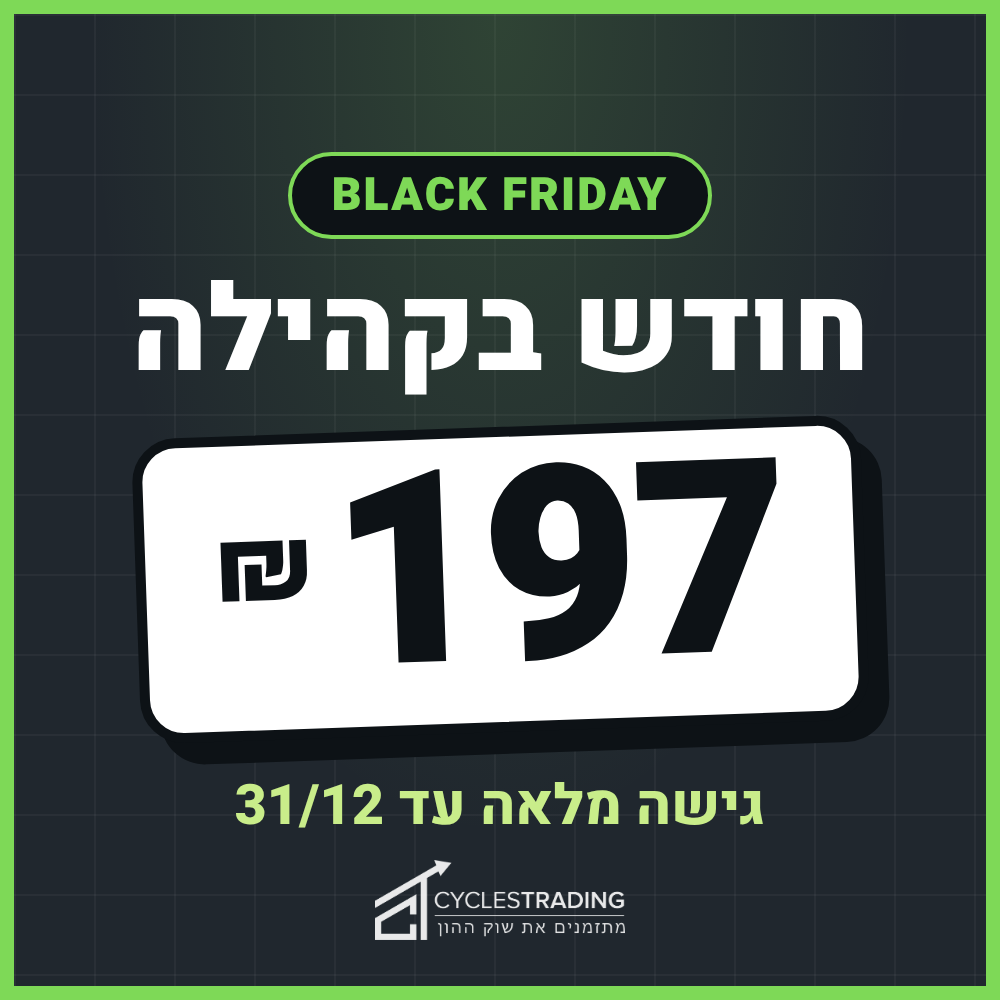
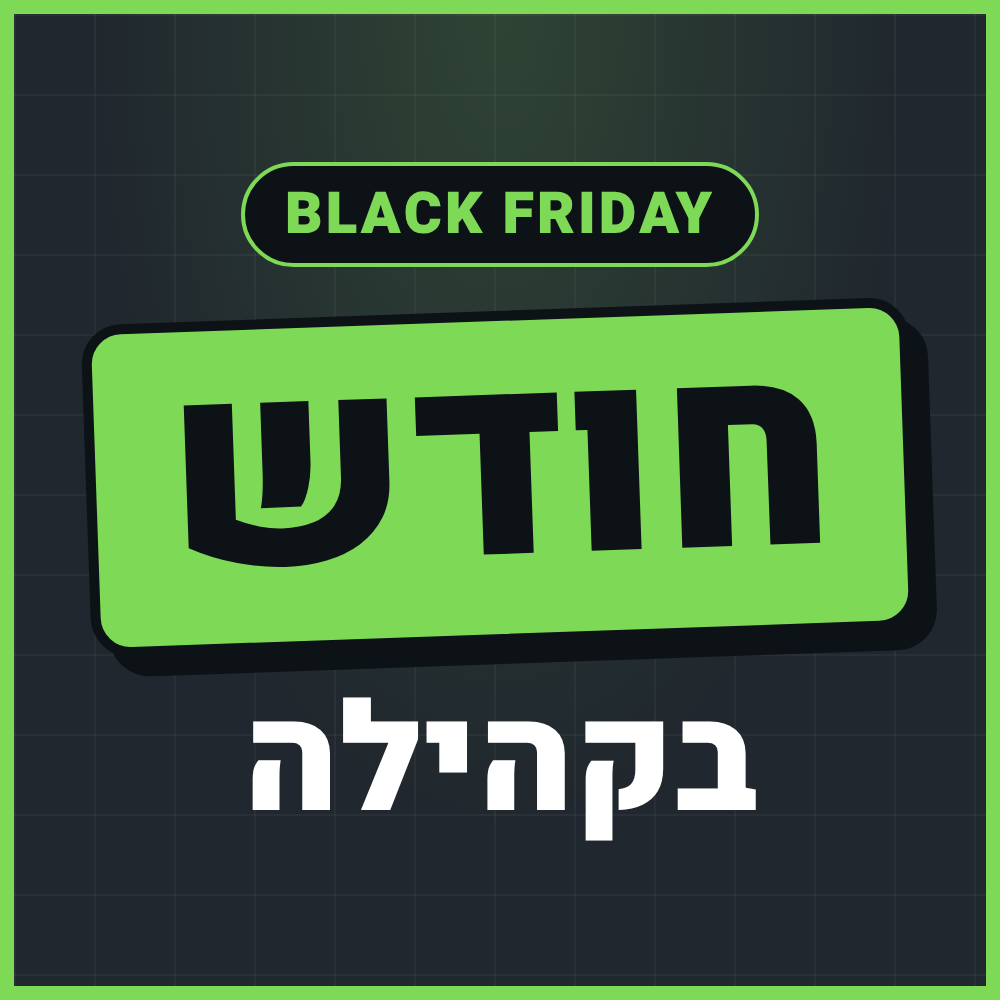
Black Friday: simplify checkout product image
Claude-Session: https://claude.ai/code/session_01BiS5GKz6x2mssRFhbGioYG

diff --git a/black-friday/product-image/product.html b/black-friday/product-image/product.html
@@ -6,18 +6,18 @@ html,body{margin:0}
 .c{width:1000px;height:1000px;box-sizing:border-box;position:relative;overflow:hidden;font-family:Heebo,Arial,sans-serif;direction:rtl;color:#fff;
  background:radial-gradient(ellipse at 50% 0%,rgba(126,217,87,.16),transparent 60%),var(--board);
  background-image:radial-gradient(ellipse at 50% 0%,rgba(126,217,87,.16),transparent 60%),linear-gradient(rgba(255,255,255,.04) 2px,transparent 2px),linear-gradient(90deg,rgba(255,255,255,.04) 2px,transparent 2px);background-size:auto,80px 80px,80px 80px;
- display:flex;flex-direction:column;align-items:center;justify-content:center;gap:34px;border:14px solid var(--green);border-radius:0}
-.tag{background:var(--ink);color:var(--green);border:4px solid var(--green);border-radius:999px;padding:6px 40px;font-weight:900;font-size:46px;letter-spacing:2px;direction:ltr}
+ display:flex;flex-direction:column;align-items:center;justify-content:center;gap:44px;border:14px solid var(--green);border-radius:0}
+.tag{background:var(--ink);color:var(--green);border:4px solid var(--green);border-radius:999px;padding:6px 40px;font-weight:900;font-size:58px;letter-spacing:3px;direction:ltr}
 .t{font-weight:900;font-size:120px;line-height:1}
 .card{background:#fff;color:var(--ink);border:10px solid var(--ink);box-shadow:20px 22px 0 var(--ink);border-radius:44px;padding:10px 70px 18px;display:flex;align-items:flex-start;gap:16px;transform:rotate(-2deg)}
 .card b{font-size:270px;font-weight:900;line-height:.95;letter-spacing:-6px}
 .card i{font-style:normal;font-size:100px;font-weight:900;margin-top:40px}
 .s{font-weight:800;font-size:56px;color:var(--gl)}
+.box{background:var(--green);color:var(--ink);border:10px solid var(--ink);box-shadow:18px 20px 0 var(--ink);border-radius:40px;padding:0 70px 16px;font-weight:900;font-size:270px;line-height:1.1;transform:rotate(-2deg)}
+.t{font-weight:900;font-size:150px;line-height:1}
 .logo{position:absolute;bottom:46px;width:250px;opacity:.9}
 </style></head><body><div class="c">
 <div class="tag">BLACK FRIDAY</div>
-<div class="t">חודש בקהילה</div>
-<div class="card"><b>197</b><i>₪</i></div>
-<div class="s">גישה מלאה עד 31/12</div>
-<img class="logo" src="logo-white.png">
+<div class="box">חודש</div>
+<div class="t">בקהילה</div>
 </div></body></html>
